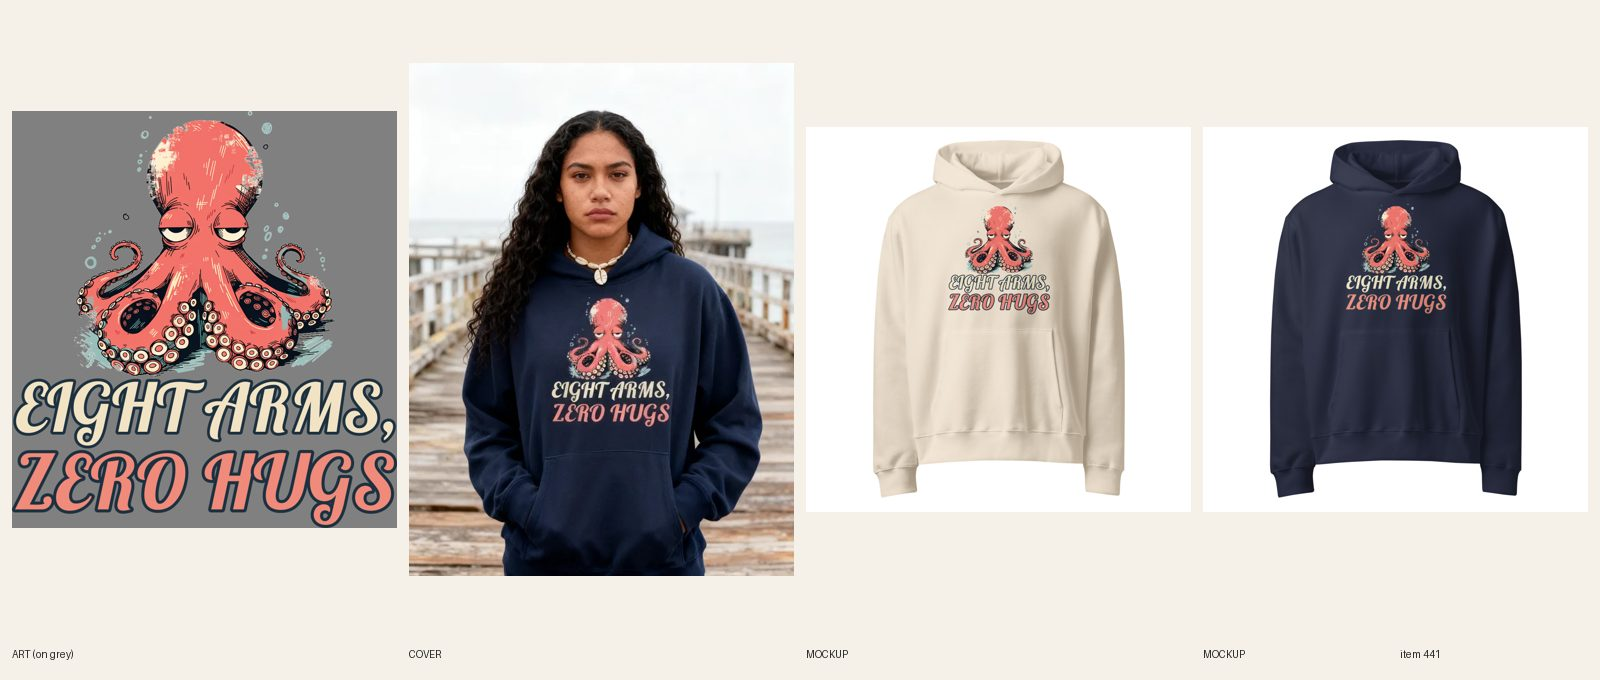
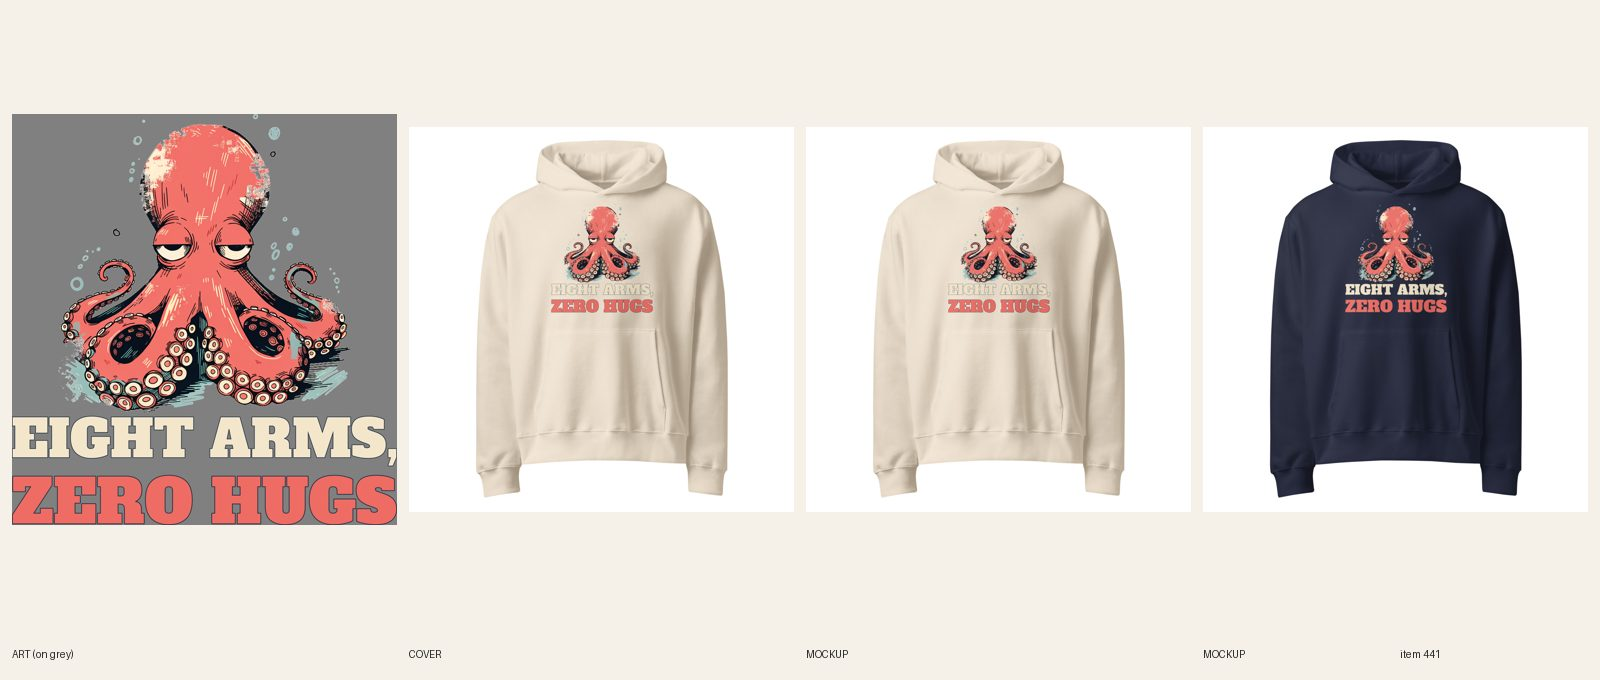
[C] review 441 Women's Octopus Eight Arms Zero Hugs hoodie (type redo)
Claude-Session: https://claude.ai/code/session_01JQVb5ZZ2os3WVGR7KG7bSB

Changed region(s): [[0.0, 0.1544, 0.5, 0.8647], [0.8438, 0.3088, 0.9062, 0.4632], [0.5938, 0.3088, 0.6562, 0.4632]]

diff --git a/designs/c441/build.py b/designs/c441/build.py
@@ -1,0 +1,26 @@
+#!/usr/bin/env python3
+"""#441 type redo: octopus art (cropped above the old Lobster lettering) over a stacked heavy AlfaSlabOne lockup
+EIGHT ARMS, / ZERO HUGS, both lines full art width, cream and coral pulled from the art. usage: build.py <src.png> <out.png>"""
+import sys
+from pathlib import Path
+from PIL import Image, ImageDraw, ImageFont
+ROOT = Path(__file__).resolve().parents[2]; F = ROOT / 'designs' / 'fonts'
+src, out = sys.argv[1:3]
+a = Image.open(src).convert('RGBA')
+art = a.crop((0, 0, a.width, 2280)); art = art.crop(art.getbbox())
+W = art.width
+# print must fit the 1650x1650 front area at FW 1500 (aspect <= 1.09): art at 76% of the lockup width
+art = art.resize((int(W * 0.76), int(art.height * 0.76)), Image.LANCZOS)
+def line(text, fill, width, size=1200):
+    f = ImageFont.truetype(str(F / 'AlfaSlabOne-Regular.ttf'), size)
+    bb = f.getbbox(text, stroke_width=14)
+    img = Image.new('RGBA', (bb[2] + 80, bb[3] + 80), (0, 0, 0, 0))
+    ImageDraw.Draw(img).text((20, 20), text, font=f, fill=fill, stroke_width=14, stroke_fill='#1c2a40')
+    img = img.crop(img.getbbox())
+    return img.resize((width, int(img.height * width / img.width)), Image.LANCZOS)
+h = line('EIGHT ARMS,', '#f3e6cb', W); s = line('ZERO HUGS', '#ee6c63', W)
+g1, g2 = 20, 50
+c = Image.new('RGBA', (W, art.height + g1 + h.height + g2 + s.height), (0, 0, 0, 0))
+c.alpha_composite(art, ((W - art.width) // 2, 0)); c.alpha_composite(h, (0, art.height + g1)); c.alpha_composite(s, (0, art.height + g1 + h.height + g2))
+c = c.crop(c.getbbox()); c.save(out, dpi=(300, 300))
+print(out, c.size, 'head h', h.height, 'sub h', s.height, 'ratio %.2f' % (s.height / h.height))

diff --git a/docs/pipeline/441-oversized-hoodie-octopus-eight-arms-zero-hugs.md b/docs/pipeline/441-oversized-hoodie-octopus-eight-arms-zero-hugs.md
@@ -1,4 +1,4 @@
-status: BUILDING [C] 2026-10-19T15:56Z
+status: REVIEW
 lane: C
 type: new
 id: 441
@@ -30,3 +30,4 @@ kd: 30
 - 2026-10-17 20:36 UTC builder [C]: REVIEW. Sync 12/12. Sheet docs/review/441.jpg. design-crops and variant-photo audit cover published products only: rerun when ACTIVE. Local cohesion audit not run (no spec file); copy checked by hand against the art. 
 - 2026-10-17 21:19 UTC director: LIVE. sheet seen: bored coral octopus with folded arms, EIGHT ARMS, / ZERO HUGS reads on both; cover woman on a pier. Copied to reference/best. ACTIVE + Online Store, Headless, Google & YouTube; audit --handle PASS.
 - 2026-10-18 17:22 UTC director: QUALITY RESET grade B (type only), REDO. The product stays ACTIVE (same handle, URL, title keyword). Keep the line "EIGHT ARMS, / ZERO HUGS" and the art. 1. Type: Both lines medium script with outline; no heavy headline weight. 2. Quality reset type bar (docs/backlog/quality-reset.md, 'The new bar'): headline at least 90% of the art width, heavy, colors pulled from the art; second line at least 45% of the headline's height, never a thin script on a dark or mid garment; use the lettering as a shape (arch, stacked lockup, words breaking into the art), not a plain bar above and a script line below; no font used on more than 1 in 6 of the last 30 designs. 3. New print file means a new cover per R6.10 and a fresh review sheet (R7.7). While quality-reset.md says PAUSED, only lane A builds, and only the samples step 2 names.
+- 2026-10-19 16:02 UTC builder [C]: REDO type-only done. Same art cropped from the old print (art scaled to 76% so the stack fits the 1650 front area), new print designs/c441/build.py: EIGHT ARMS, and ZERO HUGS in AlfaSlabOne at full lockup width (cream #f3e6cb / coral #ee6c63 from the art, navy keyline), Printful file 1089639805, FW 1500 TOP 20, resynced 12/12. Dust and Navy front mockups replaced in place (back unchanged). Cover: plain product shot (handle in retired-covers.json). Copy line 'rounded script capitals' fixed to 'heavy slab capitals, cream over coral'. Phone-size read: both lines readable on Navy. Light file n/a (cream fill is on Navy/Dust-dark ink check: Dust is a mid tone, keyline navy keeps it legible). fal $0. design-crops not rerun. Audit PASS 0 warn. Sheet docs/review/441.jpg. Set REVIEW.

diff --git a/docs/intake-log.md b/docs/intake-log.md
@@ -1,7 +1,7 @@
 RUNNING lane B since 2026-10-19 16:02 UTC
 RUNNING lane A since 2026-10-19 15:59 UTC
-RUNNING lane C since 2026-10-19 15:56 UTC
 2026-10-19 16:00 UTC — [E] Builder run: redid #282 Bulking Season tee (type only: Anton stacked red/green lockup at about 92% art width, same Santa art, FW 1400, 42/42 synced, 6 front mockups replaced in place, plain product shot). REVIEW. fal $0. 1 redo per run cap reached. Lock released.
+2026-10-19 16:02 UTC — [C] Builder run: redid #441 Eight Arms, Zero Hugs oversized hoodie (type only: heavy AlfaSlabOne cream/coral lockup, same art, FW 1500, 12/12 synced, Dust+Navy mockups replaced in place, plain product shot). REVIEW. fal $0. 1 redo per run cap reached. Lock released.
 2026-10-19 15:47 UTC — [A] Builder run: RESUMED; redid #239 Resting My Eyes tee (type only: heavy stacked RESTING / MY EYES lockup, same art, FW 1400, 42/42 synced, mockups replaced in place, plain product shot). REVIEW. fal $0. 1 redo per run cap reached. Lock released.
 2026-10-19 16:05 UTC — [H] Helper run: Telegram inbox empty (getUpdates returned 0 updates; nothing to consume). Audit (597 live products): 0 errors, 30 warnings left alone (polish). Category check: 0 products without a category. Site check: 3 newest LIVE pages return 200. Stuck work: none (lane A lock 15:34 is current). Daily summary sent (first run after 12:00 with none logged). Lock released.
 2026-10-19 15:46 UTC — [B] Builder run: redid #370 Mountains Called hoodie (type only: Bevan heavy orange/teal lockup at full art width, same art, FW 1500, 12/12 synced, Sand+Navy mockups replaced in place, plain product shot). REVIEW. fal $0. 1 redo per run cap reached. Lock released.
